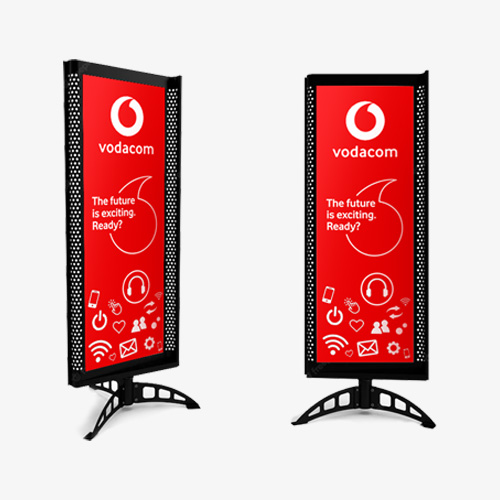
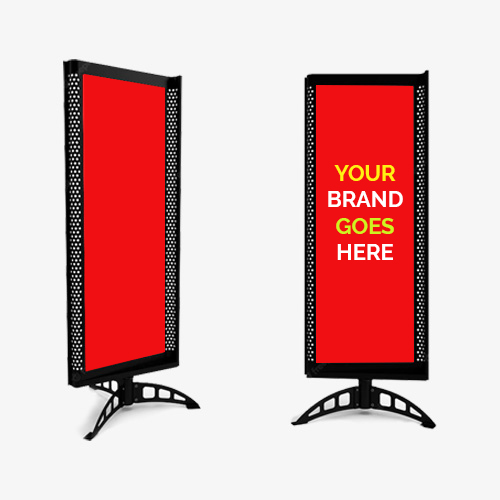
other prods

Changed region(s): [[0.63, 0.15, 0.84, 0.72], [0.18, 0.18, 0.33, 0.72], [0.15, 0.15, 0.21, 0.21]]

diff --git a/utils/products.tsx b/utils/products.tsx
@@ -234,6 +234,29 @@ export const branding_list = [
         price_for: "each",
         image: "acm"
     },
+
+    {
+        name: "ABS, Corex, Foam Board",
+        price: "0.00",
+        description: "Request Quote",
+        price_for: "N/A",
+        image: "corex"
+    },
+    {
+        name: "Sublimation Mugs",
+        price: "0.00",
+        description: "",
+        price_for: "each",
+        image: "mugs"
+    },
+
+    {
+        name: "Pylons",
+        price: "0.00",
+        description: "Request Quote",
+        price_for: "N/A",
+        image: "pylon"
+    },
 ]
 
 

diff --git a/app/page.tsx b/app/page.tsx
@@ -168,7 +168,7 @@ export default function Home() {
                     }
                 </div>
                 <div className="flex items-center gap-5">
-                    <Image onClick={ scrollLeft2} src='/prev.png' alt="scroll back" width={50} height={50} />
+                    <Image onClick={scrollLeft2} src='/prev.png' alt="scroll back" width={50} height={50} />
                     <Image onClick={scrollRight2} src='/next.png' alt="scroll back" width={50} height={50} />
                 </div>
             </section>
